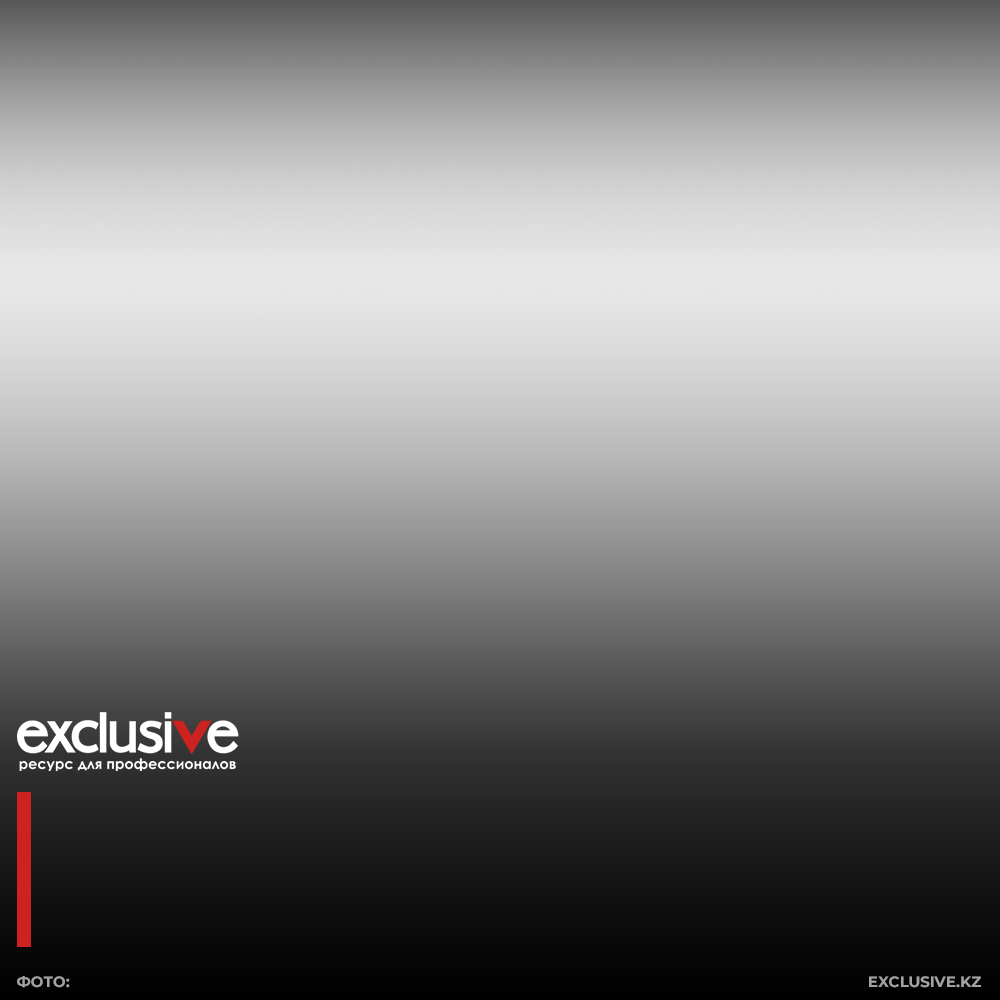
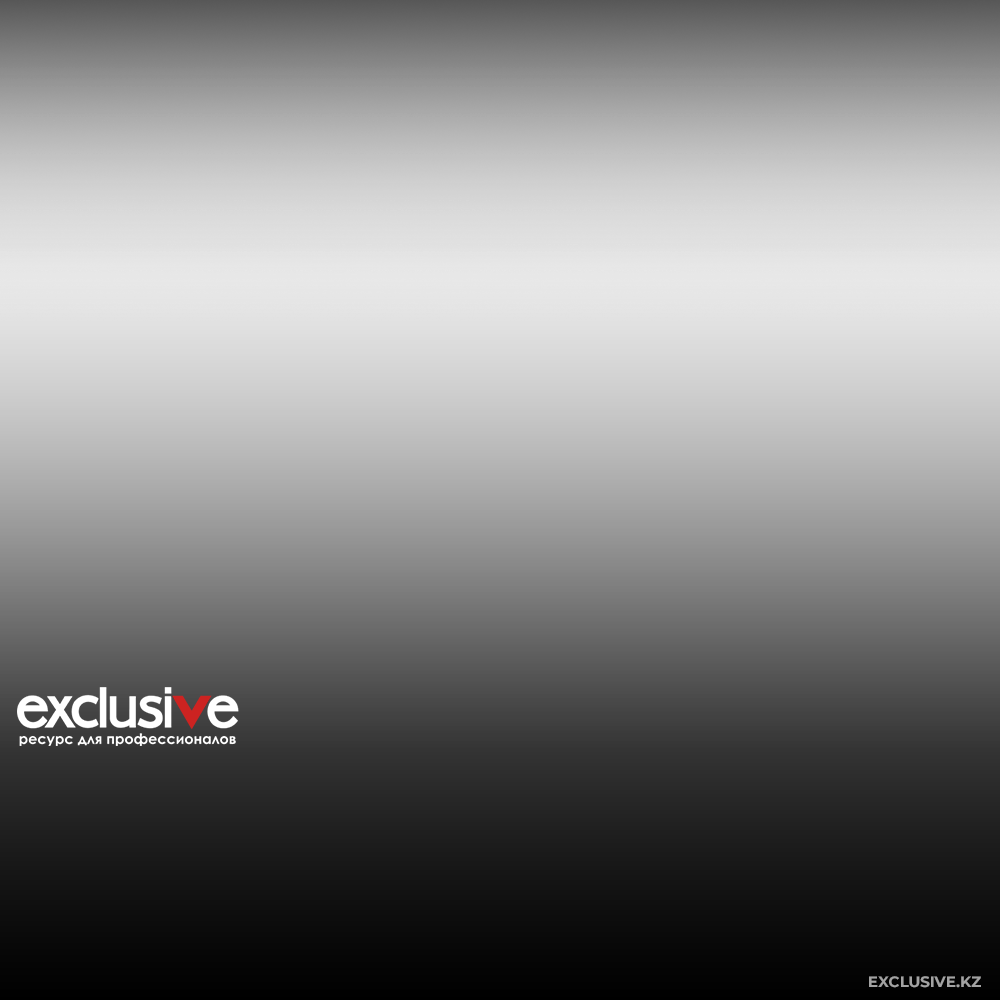
feat: posting with telegram bot

Changed region(s): [[0.0, 0.682, 0.248, 0.992]]

diff --git a/main.py b/main.py
@@ -5,7 +5,17 @@ from PIL import Image, ImageDraw, ImageFont, ImageEnhance
 from datetime import datetime
 import locale
 from babel.dates import format_date
-import textwrap
+from dotenv import load_dotenv
+import asyncio
+import re
+import html
+from aiogram import Bot
+from aiogram.types import FSInputFile
+import logging
+
+load_dotenv()
+TELEGRAM_BOT_TOKEN = os.getenv("TELEGRAM_BOT_TOKEN")
+TELEGRAM_CHANNEL_ID = os.getenv("TELEGRAM_CHANNEL_ID")
 
 locale.setlocale(locale.LC_TIME, 'ru_RU.UTF-8')
 
@@ -20,6 +30,114 @@ FONT_PATH = "font/Montserrat-Bold.ttf"
 os.makedirs(IMAGE_DIR, exist_ok=True)
 os.makedirs(OUTPUT_DIR, exist_ok=True)
 
+def load_published_articles():
+    if not os.path.exists("published_articles.txt"):
+        return set()
+    with open("published_articles.txt", "r", encoding="utf-8") as file:
+        return set(line.strip() for line in file.readlines())
+
+def save_published_article(article_url):
+    with open("published_articles.txt", "a", encoding="utf-8") as file:
+        file.write(f"{article_url}\n")
+
+
+async def send_to_telegram(image_path, post_url, article_content):
+    caption_limit = 1024
+    text_limit = 995
+
+    exclude_texts = ["Избранные материалы от Exclusive", "наших рассылках"]
+    article_content = "\n".join(
+        [line for line in article_content.split("\n") if not any(ex in line for ex in exclude_texts)]
+    )
+
+    kazakhstan_keywords = ["Казахстан", "Алматы", "Астана", "РК"]
+    flag_emoji = "🇰🇿" if any(word in article_content for word in kazakhstan_keywords) else "📰"
+
+    article_content = html.unescape(article_content)
+
+    paragraphs = article_content.split("\n")
+    formatted_text = []
+    first_paragraph_added = False
+
+    for paragraph in paragraphs:
+        paragraph = paragraph.strip()
+        if not paragraph:
+            continue
+
+        if not first_paragraph_added and paragraph.startswith("**") and paragraph.endswith("**"):
+            formatted_text.append(f"{flag_emoji} {paragraph}")
+            first_paragraph_added = True
+            continue
+
+        paragraph = re.sub(r"\n?(https?://\S+)", r"\1", paragraph)
+
+        paragraph = re.sub(r"(\S)(https?://)", r"\1 \2", paragraph)
+
+        formatted_text.append(paragraph)
+
+    formatted_text = "\n\n".join(formatted_text)
+
+    caption = f"{formatted_text}\n\n[🔗 Читать на Exclusive.kz]({post_url})"
+
+    if len(caption) > caption_limit:
+        truncated_text = formatted_text[:text_limit]
+        truncated_text = re.sub(r"[^.!?]*$", "", truncated_text)
+        caption = f"{truncated_text}\n\n[🔗 Читать на Exclusive.kz]({post_url})"
+
+    async with Bot(token=TELEGRAM_BOT_TOKEN) as bot:
+        try:
+            image = FSInputFile(image_path)
+            await bot.send_photo(chat_id=TELEGRAM_CHANNEL_ID, photo=image, caption=caption, parse_mode="Markdown")
+            logging.info(f"✅ Успешно отправлено в Telegram: {post_url}")
+            save_published_article(post_url)
+        except Exception as e:
+            logging.error(f"❌ Ошибка отправки в Telegram: {e}")
+
+
+def extract_article_content(article_url):
+    response = requests.get(article_url, headers={"User-Agent": "Mozilla/5.0"})
+    if response.status_code != 200:
+        return ""
+
+    soup = BeautifulSoup(response.text, "html.parser")
+    content = []
+
+    title_tag = soup.find("h1", class_="section__title")
+    if title_tag:
+        content.append(f"**{title_tag.get_text(strip=True)}**\n")
+
+    article_body = soup.find("div", class_="entry-content")
+    if not article_body:
+        return ""
+
+    for element in article_body.find_all(["p", "blockquote", "strong", "a"], recursive=True):
+        text = element.get_text(strip=True)
+
+        if element.name == "p":
+            if element.find("strong"):
+                content.append(f"**{text}**")
+            else:
+                content.append(text)
+        elif element.name == "blockquote":
+            content.append(f"> {text}")
+        elif element.name == "a":
+            link_url = element.get("href")
+            if link_url:
+                link_text = element.get_text(strip=True)
+                content.append(f"[{link_text}]({link_url})")
+
+    return "\n\n".join(content[:6])
+
+
+def load_processed_articles():
+    if not os.path.exists("processed_articles.txt"):
+        return set()
+    with open("processed_articles.txt", "r", encoding="utf-8") as file:
+        return set(line.strip() for line in file.readlines())
+
+def save_processed_articles(processed_articles):
+    with open("processed_articles.txt", "w", encoding="utf-8") as file:
+        file.writelines(f"{article}\n" for article in processed_articles)
 
 def download_image(url, filename):
     response = requests.get(url, stream=True)
@@ -29,6 +147,29 @@ def download_image(url, filename):
                 file.write(chunk)
     else:
         print(f"❌ Не удалось скачать изображение: {url}")
+
+
+def extract_photo_author(article_url):
+    headers = {"User-Agent": "Mozilla/5.0"}
+    response = requests.get(article_url, headers=headers)
+
+    if response.status_code != 200:
+        print(f"❌ Ошибка загрузки страницы: {article_url}")
+        return "Фото: из открытых источников"
+
+    soup = BeautifulSoup(response.text, "html.parser")
+
+    entry_content = soup.find("div", class_="entry-content")
+    if not entry_content:
+        print("❌ Не найден блок entry-content")
+        return "Фото: из открытых источников"
+
+    author_tag = entry_content.find("p", string=lambda text: text and "Фото" in text)
+
+    if author_tag:
+        return author_tag.get_text(strip=True)
+
+    return "Фото: из открытых источников"
 
 
 def wrap_text(draw, text, font, max_width):
@@ -49,12 +190,47 @@ def wrap_text(draw, text, font, max_width):
     lines.append(current_line)
     return "\n".join(lines)
 
-def create_social_media_image(title, image_path, output_path):
+import textwrap
+
+def fit_text_into_lines(text, font, max_width, target_lines, force_split, draw):
+    words = text.split()
+    lines = []
+    current_line = ""
+
+    for word in words:
+        test_line = (current_line + " " + word).strip()
+        text_width = draw.textbbox((0, 0), test_line, font=font)[2]
+
+        if text_width <= max_width:
+            current_line = test_line
+        else:
+            lines.append(current_line)
+            current_line = word
+
+        if len(lines) == target_lines - 1:
+            remaining_text = " ".join(words[words.index(word):])
+            lines.append(remaining_text)
+            break
+
+    if current_line and len(lines) < target_lines:
+        lines.append(current_line)
+
+    while len(lines) < target_lines:
+        lines.append("")
+
+    if force_split and target_lines == 3:
+        wrapped_lines = textwrap.wrap(text, width=len(text) // target_lines)
+        if len(wrapped_lines) == 3:
+            return wrapped_lines
+
+    return lines[:target_lines]
+
+def create_social_media_image(title, image_path, output_path, image_author):
     template = Image.open(TEMPLATE_PATH).convert("RGBA")
     news_image = Image.open(image_path).convert("RGB")
 
     enhancer = ImageEnhance.Color(news_image)
-    news_image = enhancer.enhance(2.5)
+    news_image = enhancer.enhance(1.5)
 
     target_height = 1000
     aspect_ratio = news_image.width / news_image.height
@@ -67,7 +243,7 @@ def create_social_media_image(title, image_path, output_path):
     final_image.paste(template, (0, 0), mask=template)
 
     draw = ImageDraw.Draw(final_image)
-    max_text_width = template.width - 100
+    max_text_width = template.width - 86
     text_x = 43
     text_y = 792
     text_bottom = 947
@@ -87,27 +263,20 @@ def create_social_media_image(title, image_path, output_path):
         force_split = False
 
     font = ImageFont.truetype(FONT_PATH, font_size)
+    wrapped_text = fit_text_into_lines(title.upper(), font, max_text_width, target_lines, force_split, draw)
 
+    wrapped_text = [line for line in wrapped_text if line.strip()]
 
-    def fit_text_into_lines(text, font, max_width, target_lines, force_split):
-        if force_split:
-            words = text.split()
-            avg_words_per_line = len(words) // target_lines
-            lines = [" ".join(words[i * avg_words_per_line: (i + 1) * avg_words_per_line]) for i in range(target_lines)]
-            if len(lines) < target_lines:
-                lines.append(" ".join(words[len(lines) * avg_words_per_line:]))
-            return lines[:target_lines]
-        else:
-            wrapped_lines = textwrap.wrap(text, width=30)
-            return wrapped_lines[:target_lines] + [""] * (target_lines - len(wrapped_lines))
+    while len(wrapped_text) < target_lines:
+        words = " ".join(wrapped_text).split()
+        avg_words_per_line = len(words) // target_lines
+        wrapped_text = [" ".join(words[i * avg_words_per_line: (i + 1) * avg_words_per_line]) for i in
+                        range(target_lines)]
 
-    wrapped_text = fit_text_into_lines(title.upper(), font, max_text_width, target_lines, force_split)
-
-    if target_lines == 4:
-        while any(draw.textbbox((0, 0), line, font=font)[2] > max_text_width for line in wrapped_text):
-            font_size -= 2
-            font = ImageFont.truetype(FONT_PATH, font_size)
-            wrapped_text = fit_text_into_lines(title.upper(), font, max_text_width, target_lines, force_split)
+    while any(draw.textbbox((0, 0), line, font=font)[2] > max_text_width for line in wrapped_text):
+        font_size -= 2
+        font = ImageFont.truetype(FONT_PATH, font_size)
+        wrapped_text = fit_text_into_lines(title.upper(), font, max_text_width, target_lines, force_split, draw)
 
     ascent, descent = font.getmetrics()
     line_height = ascent + descent
@@ -116,12 +285,28 @@ def create_social_media_image(title, image_path, output_path):
     text_start_y = text_y + (max_text_height - total_text_height) // 2
     current_y = text_start_y
 
+    rect_x = 17
+    rect_width = 14
+    rect_height = total_text_height
+    rect_y = text_start_y
+
+    draw.rectangle(
+        [(rect_x, rect_y), (rect_x + rect_width, rect_y + rect_height)],
+        fill="#cc2321"
+    )
+
     for line in wrapped_text:
         draw.text((text_x, current_y), line, font=font, fill="white")
         current_y += line_height
 
+    author_font = ImageFont.truetype(FONT_PATH, 15)
+    author_x = 17
+    author_y = 975
+    draw.text((author_x, author_y), image_author.upper(), font=author_font, fill=(255, 255, 255, 80))
+
     final_image.save(output_path)
     print(f"✅ Создано изображение: {output_path} (Шрифт: {font_size}px, Строк: {target_lines})")
+
 
 def scrape_page():
     url = BASE_URL
@@ -129,6 +314,8 @@ def scrape_page():
     count = 1
     page_count = 0
     max_pages = 1
+
+    processed_articles = load_processed_articles()
 
     print(f"🔍 Собираем новости за {TARGET_DATE}")
 
@@ -142,50 +329,46 @@ def scrape_page():
         items = soup.find_all("div", class_="section__item item")
 
         if not items:
-            print("❌ Не найдено ни одной статьи. Проверь структуру HTML.")
+            print("❌ Не найдено ни одной статьи.")
             break
 
         for item in items:
             title_tag = item.find("h2", class_="item__title")
             image_tag = item.find("img", class_="item__image")
-            time_tag = item.find("p", class_="item__time")
+            link_tag = title_tag.find("a") if title_tag else None
+            article_url = link_tag["href"] if link_tag else None
 
-            if time_tag:
-                post_date = time_tag.text.strip().lower()
-                if TARGET_DATE in post_date:
-                    print(f"✅ Найдена статья за {TARGET_DATE}: {post_date}")
-                else:
-                    print(f"❌ Дата не совпадает: {post_date} (ожидали {TARGET_DATE})")
+            if title_tag and image_tag and article_url:
+                title = title_tag.get_text(strip=True)
 
-            if title_tag and image_tag and time_tag:
-                post_date = time_tag.text.strip()
+                if title in processed_articles:
+                    print(f"⏩ Уже обработано: {title}")
+                    continue
 
-                if TARGET_DATE in post_date:
-                    title = title_tag.find("a").text.strip()
-                    image_url = image_tag.get("src", "").strip()
+                image_url = image_tag.get("src", "").strip()
+                if not image_url:
+                    print(f"❌ Не найдено изображение для: {title}")
+                    continue
 
-                    if not image_url:
-                        print(f"❌ Не найдено изображение для: {title}")
-                        continue
+                print(f"{count}. {title}")
+                image_filename = os.path.join(IMAGE_DIR, f"{count}.jpg")
+                download_image(image_url, image_filename)
 
-                    print(f"{count}. {title}")
-                    image_filename = os.path.join(IMAGE_DIR, f"{count}.jpg")
-                    download_image(image_url, image_filename)
+                image_author = extract_photo_author(article_url)
+                article_content = extract_article_content(article_url)
 
-                    output_image_path = os.path.join(OUTPUT_DIR, f"post_{count}.png")
-                    create_social_media_image(title, image_filename, output_image_path)
+                output_image_path = os.path.join(OUTPUT_DIR, f"post_{count}.png")
+                create_social_media_image(title, image_filename, output_image_path, image_author)
 
-                    data.append([title, post_date, output_image_path])
-                    count += 1
+                data.append([title, article_url, image_author, output_image_path])
+                processed_articles.add(title)
+                count += 1
+
+                asyncio.run(send_to_telegram(output_image_path, article_url, article_content))
 
         page_count += 1
-        next_page = soup.find("a", class_="next page-numbers")
-        if next_page and page_count < max_pages:
-            url = next_page.get("href")
-            print(f"➡ Переход на следующую страницу: {url}")
-        else:
-            url = None
 
+    save_processed_articles(processed_articles)
 
 if __name__ == "__main__":
     scrape_page()
